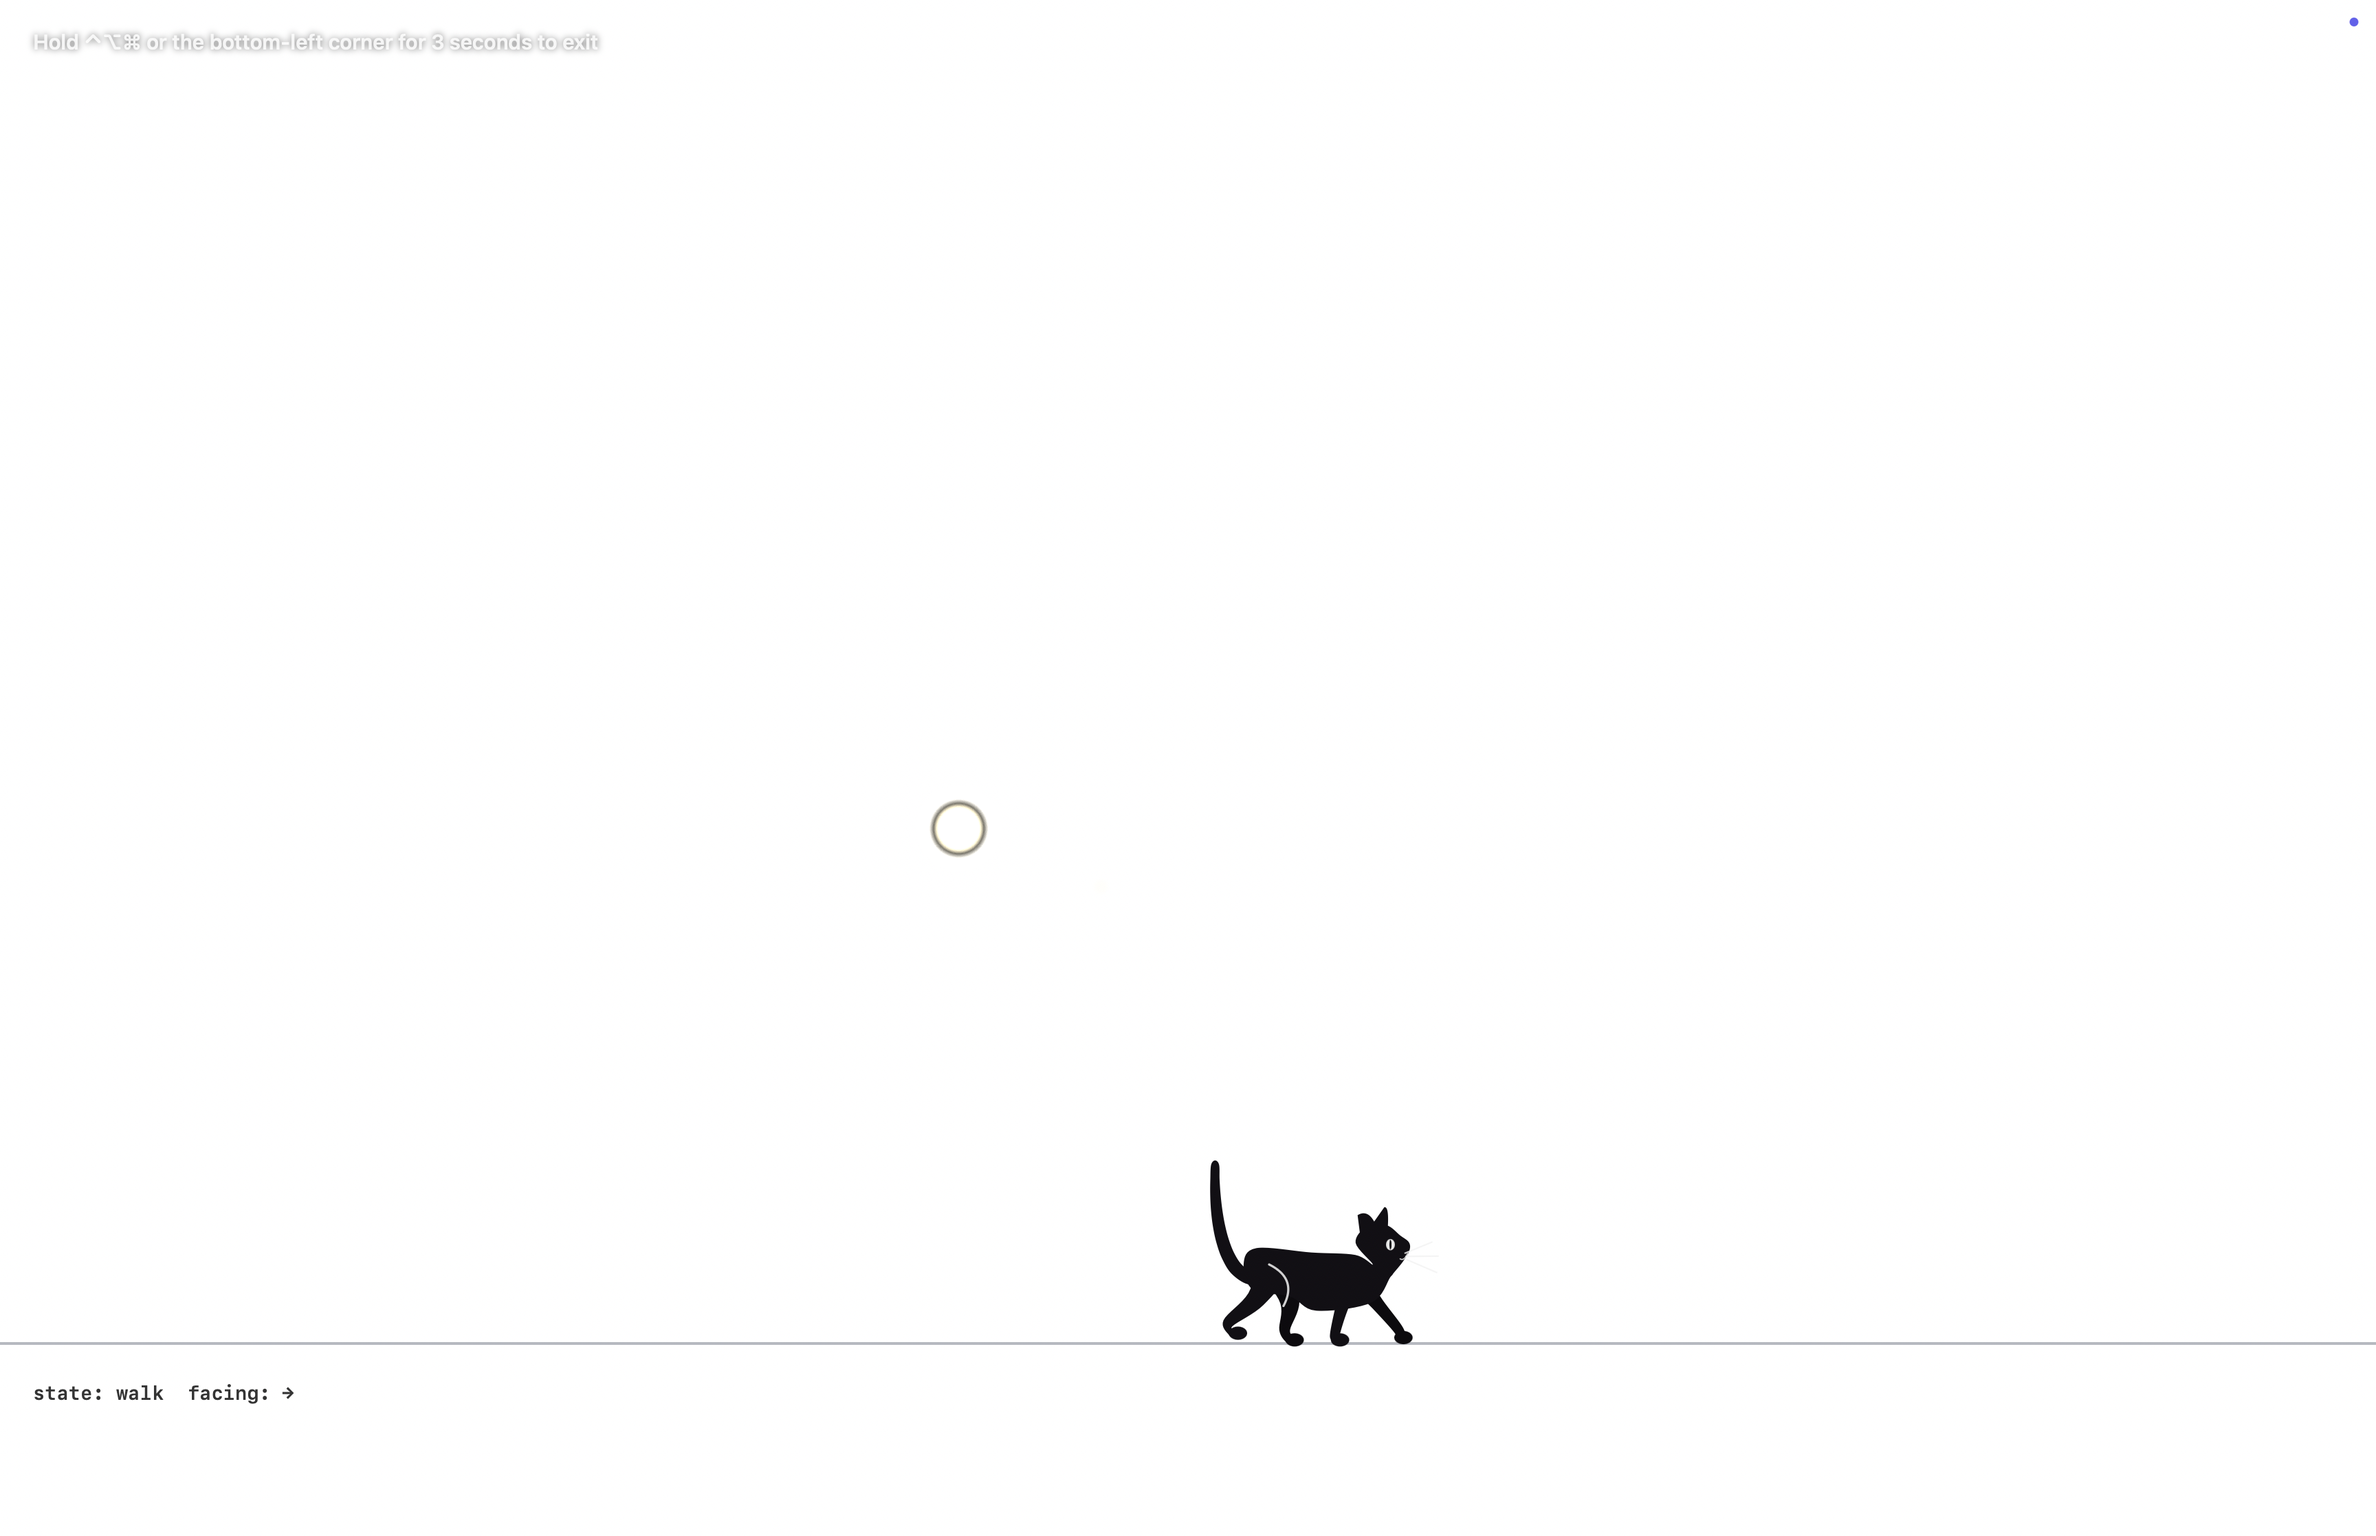
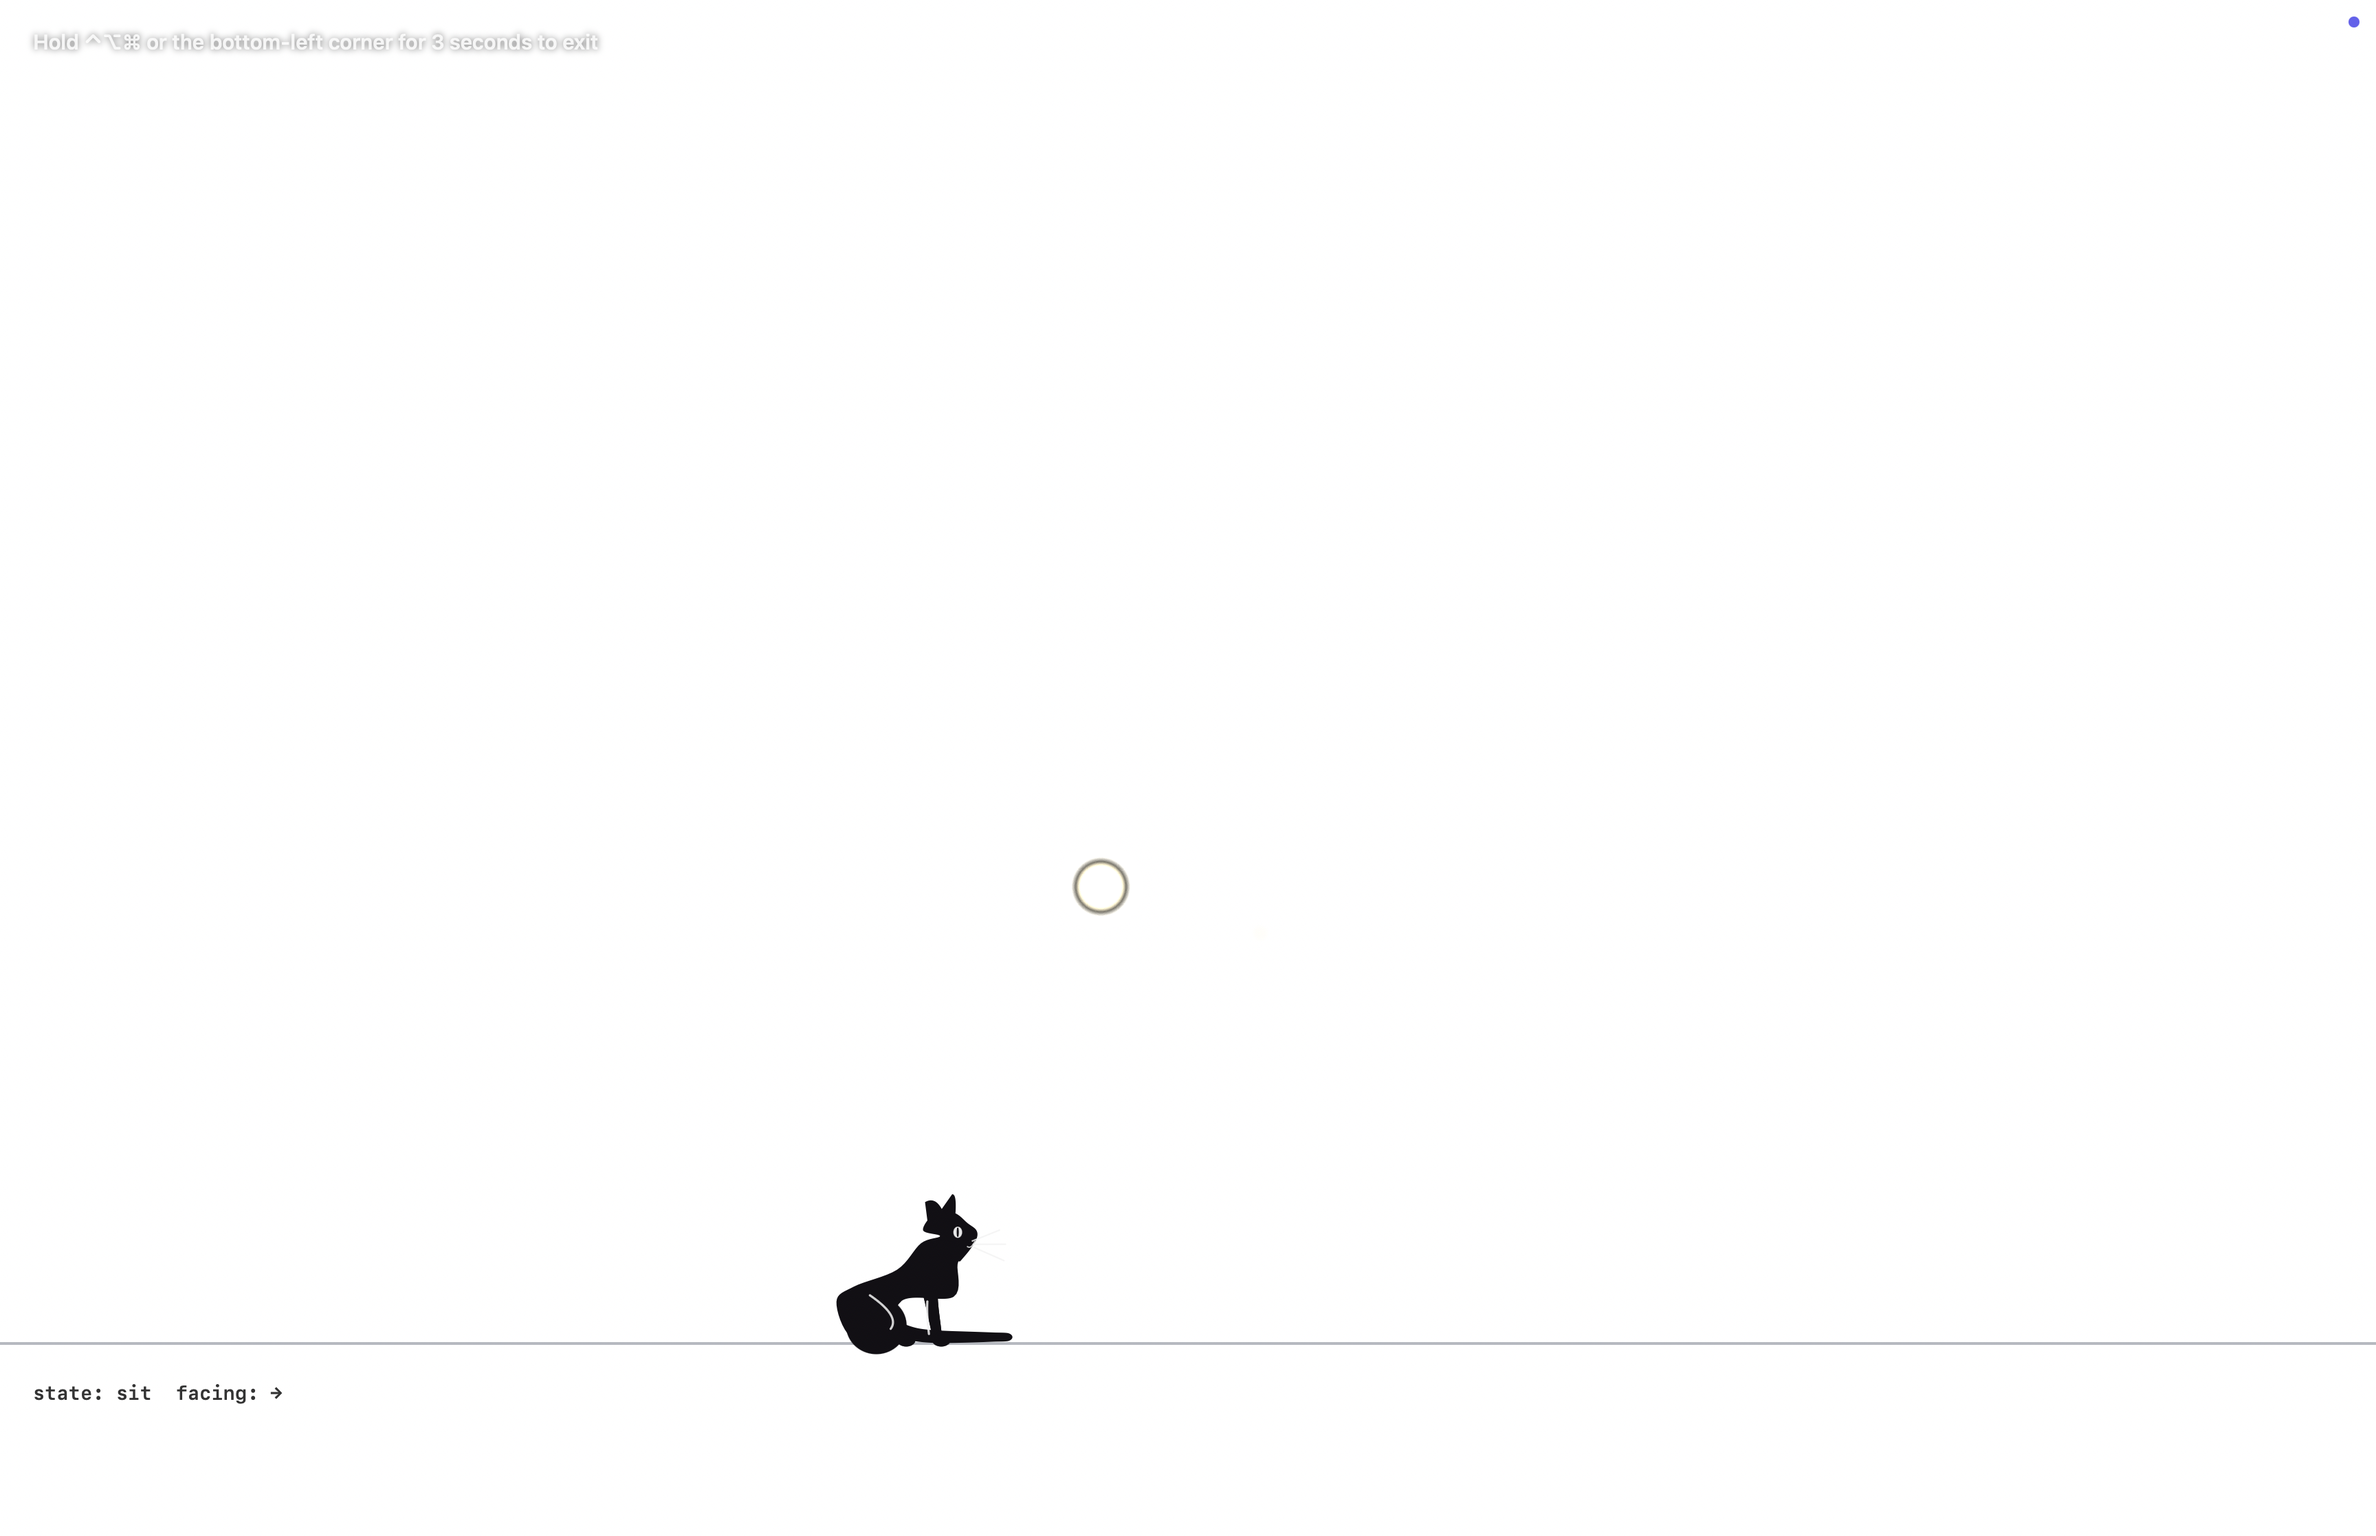
KiddyCat: authored tail wrap for seated poses + triangular sit
- Seated/loaf tail: after physics settle (~0.4s), the verlet chain eases
  onto an authored wrap curve — down off the rump, forward along the
  ground, tip stopping beside the paws with an up-curl. Dynamics still own
  the transition in/out; the rest pose is now the reference composition.
- Sit reads as the reference's clean triangle: rump raised, tighter haunch
  mass; a touch more daylight under the standing belly.

diff --git a/Sources/kiddyproof/KiddyCat.swift b/Sources/kiddyproof/KiddyCat.swift
@@ -234,7 +234,7 @@ final class KiddyCat {
         case .walk, .trot: return (0.75, 1.0)             // raised, confident
         case .startle: return (1.1, 0)                    // bottle-brush up
         case .pounceAir: return (0.2, 0)                  // streams back in flight
-        case .sit, .groom, .lie: return (0.14, 0.35)      // wrapped low, tip curled
+        case .sit, .groom, .lie: return (0.22, 0.35)      // wrapped low, tip curled
         default: return (0.55, 0.6)
         }
     }
@@ -258,7 +258,7 @@ final class KiddyCat {
             vel.x += CGFloat(sin(now * (1.3 + Double(sway)) + Double(t) * 2.6)) * sway * t * size * 0.5 * dt
             // Sitting: the tail curls forward and wraps around the paws.
             if state == .sit || state == .groom || state == .lie {
-                vel.x += facing * t * t * size * 2.6 * dt * dt * 60
+                vel.x += facing * t * t * size * 1.9 * dt * dt * 60
             }
             tailPrev[i] = cur
             tail[i] = cur + vel
@@ -267,6 +267,25 @@ final class KiddyCat {
         }
         tail[0] = root
         tailPrev[0] = root
+        // Seated/loafing: after the physics settle, ease the chain onto an
+        // AUTHORED wrap — down from the rump, forward along the ground past the
+        // paws, tip curled up — the reference pose physics alone won't find.
+        if state == .sit || state == .groom || state == .lie {
+            let settle = CGFloat(min(1, max(0, stateTime - 0.4) * 0.9))
+            if settle > 0 {
+                let n = tail.count
+                for i in 1..<n {
+                    let t = CGFloat(i) / CGFloat(n - 1)
+                    let tx = pos.x + facing * size * (-0.56 + 1.02 * t)
+                    let drop = 0.42 * (1 - t) * (1 - t)
+                    let curl = t > 0.82 ? (t - 0.82) * 0.9 : 0
+                    let ty = groundY + size * (0.09 + drop + curl)
+                    let k = settle * min(1, dt * 5)
+                    tail[i].x += (tx - tail[i].x) * k
+                    tail[i].y += (ty - tail[i].y) * k
+                }
+            }
+        }
         // Constraint passes keep segment lengths.
         for _ in 0..<3 {
             for i in 1..<tail.count {
@@ -309,7 +328,7 @@ final class KiddyCat {
             // The royal sit: tall vertical chest over straight front legs, haunches
             // rounded behind, head high (groom: head dipped to the chest).
             p.sitFold = 1
-            p.rumpHeight = 0.46
+            p.rumpHeight = 0.50
             p.shoulderHeight = 1.0
             p.headHeight = state == .groom ? 0.92 : 1.3
             p.headForward = state == .groom ? 0.42 : 0.5
@@ -633,7 +652,7 @@ final class KiddyCat {
             (hcx + dx * ca - dy * sa, hcy + dx * sa + dy * ca)
         }
         let spineTopY = (shoulderY + rumpY) / 2 + 0.17 + pose.backArch
-        let bellyY = shoulderY - 0.50 + pose.crouch * 0.22
+        let bellyY = shoulderY - 0.47 + pose.crouch * 0.22
         var outline: [(CGFloat, CGFloat)] = []
         outline.append(H(R * 0.15, -R * 0.94))                              // under jaw
         outline.append((shoulderX + 0.18 + sit * 0.11, shoulderY - 0.40 - sit * 0.02)) // chest
@@ -678,7 +697,7 @@ final class KiddyCat {
         // Sitting: haunch mass over the folded rear, blended into the outline.
         if sit > 0.15 {
             let hx = P(rumpX + 0.16, rumpY * 0.45)
-            let hr = s * 0.42 * sit
+            let hr = s * 0.38 * sit
             ctx.fillEllipse(in: CGRect(x: hx.x - hr, y: hx.y - hr * 0.95, width: hr * 2, height: hr * 1.9))
         }
 
